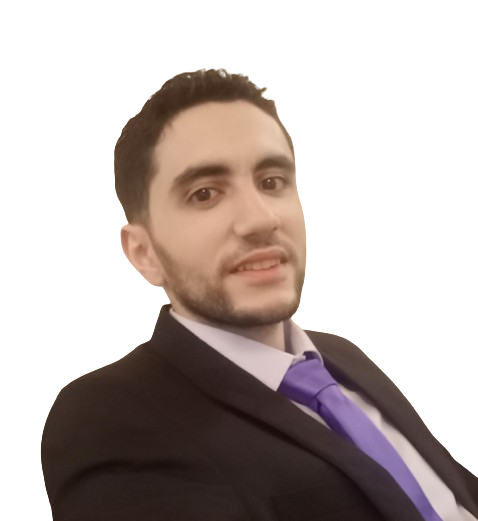
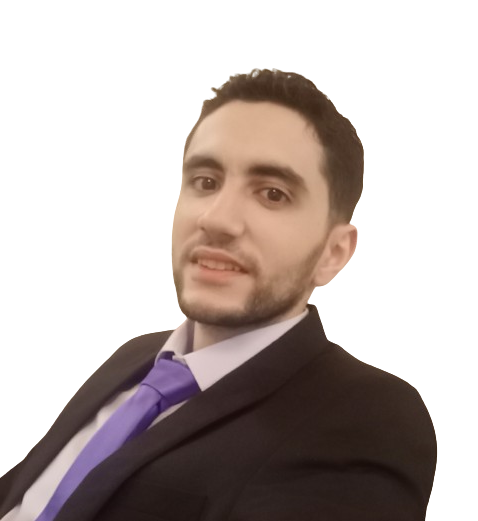
new

diff --git a/index.html b/index.html
@@ -6,7 +6,7 @@
 
 
         <!-- Favicon -->
-        <link href="img/hero.png" rel="icon">
+        <link href="img/IMG46.jpg" rel="icon">
 
         <!-- Google Font -->
         <link href="https://fonts.googleapis.com/css2?family=Montserrat:wght@300;400;500;600;700&display=swap" rel="stylesheet">
